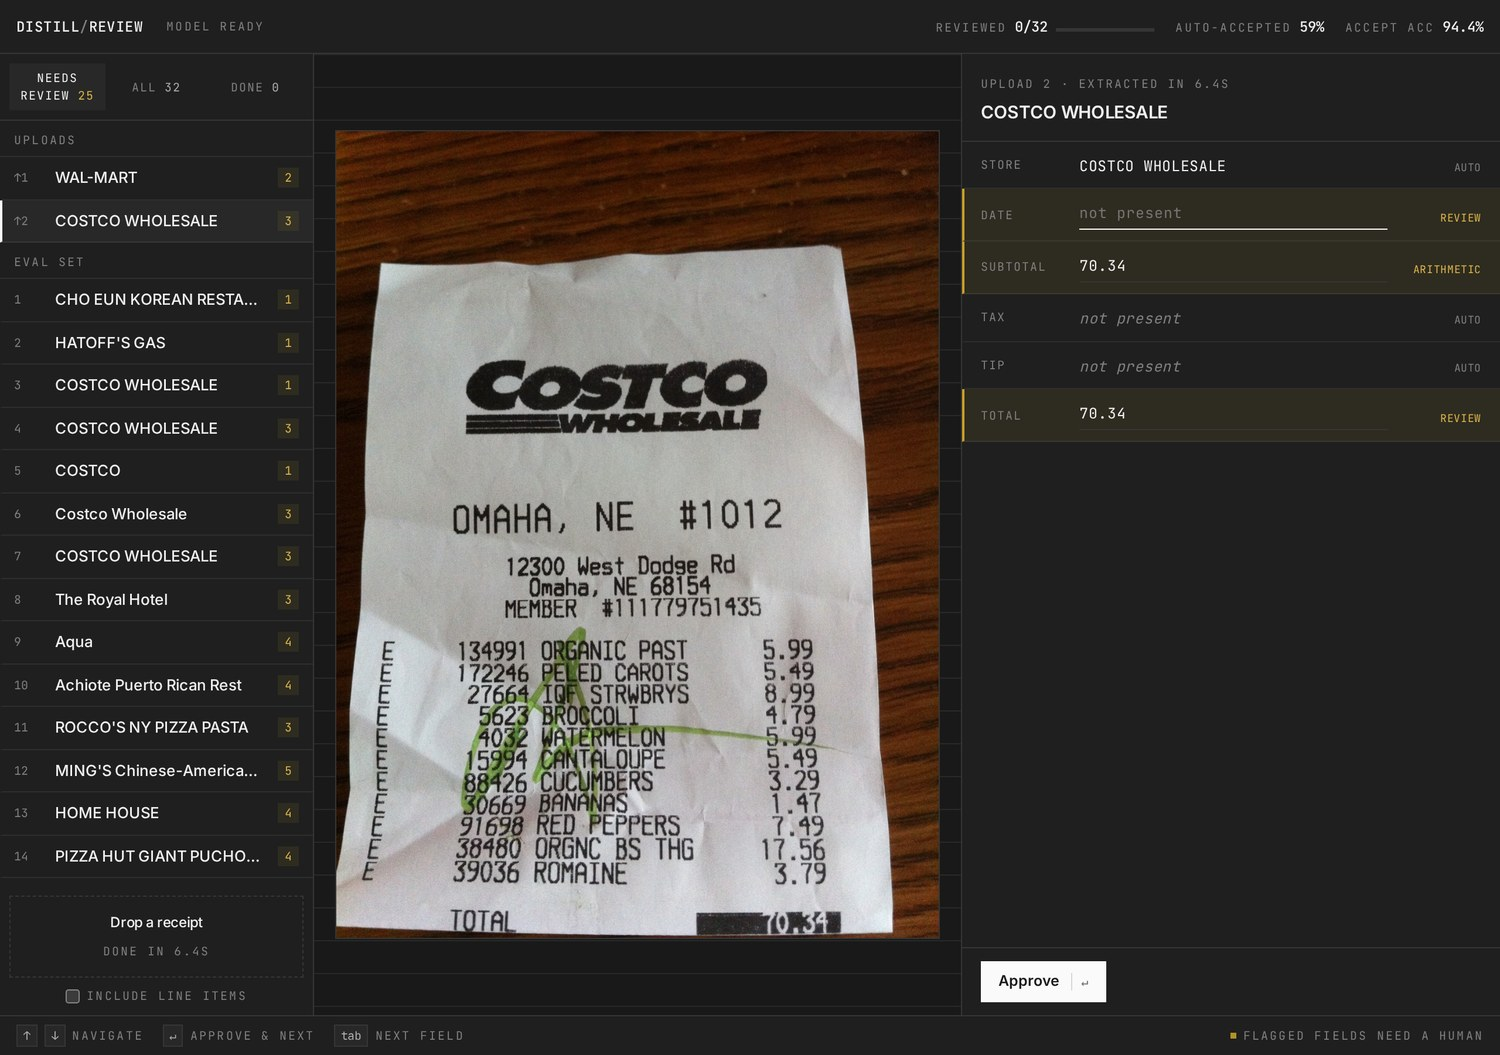
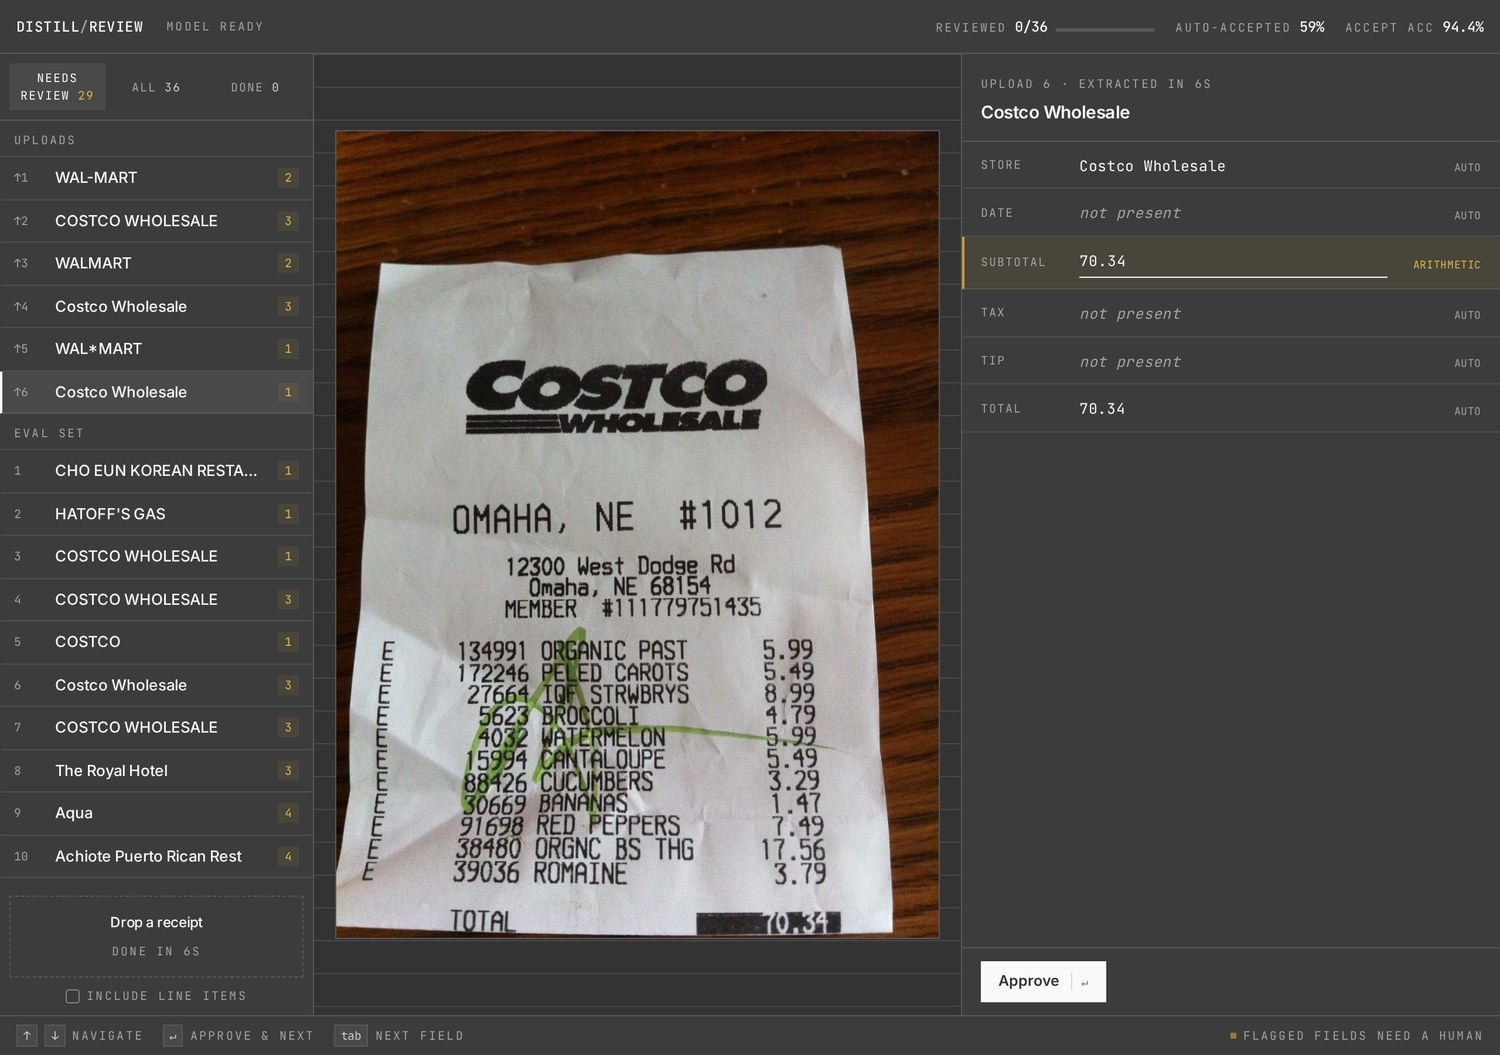
Lighten surfaces again to a mid charcoal (#333 base)
Third step up the gray ramp; panels at #3c3c3c, borders #585858, with
text and micro-labels brightened to hold contrast. Demo assets
recaptured to match.

diff --git a/review/static/index.html b/review/static/index.html
@@ -12,14 +12,14 @@
       /* Neutral grayscale surfaces; white is the interface accent (selection,
          primary action). Exactly one hue survives, and only semantically:
          amber marks fields a human still has to resolve. */
-      --bg: #191919;
-      --layer: #1f1f1f;
-      --layer-2: #282828;
-      --border: #363636;
-      --border-soft: rgba(255, 255, 255, 0.07);
-      --fg: #f0f0f0;
-      --fg-dim: #adadad;
-      --fg-feint: #808080;
+      --bg: #333333;
+      --layer: #3c3c3c;
+      --layer-2: #494949;
+      --border: #585858;
+      --border-soft: rgba(255, 255, 255, 0.10);
+      --fg: #f7f7f7;
+      --fg-dim: #c9c9c9;
+      --fg-feint: #a2a2a2;
       --accent: #fafafa;
       --accent-hi: #ffffff;
       --accent-wash: rgba(255, 255, 255, 0.055);
